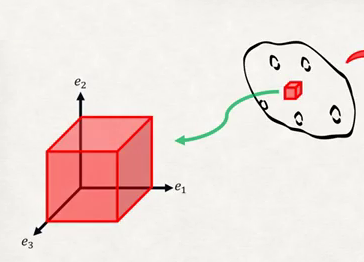
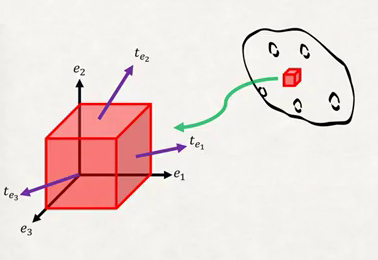
-

Changed region(s): [[0.0, 0.0923, 0.9973, 0.9538], [0.9368, 0.1846, 1.0, 0.2462], [0.3324, 0.1846, 0.3929, 0.2462]]

diff --git a/phy/phy_020_strs_02/materyel_mekanigi__2.html b/phy/phy_020_strs_02/materyel_mekanigi__2.html
@@ -37,7 +37,7 @@ olur,</p>
 <p>$$
 \epsilon_{Green} \approx \frac{1}{2} (\nabla u + \nabla u^T )
 $$</p>
-<p>Bilesen formunda</p>
+<p>Bileşen formunda</p>
 <p>$$
 \epsilon_{ij} = \left(
 \frac{\partial u_i}{\partial X_j} + \frac{\partial u_j}{\partial X_i}
@@ -77,7 +77,20 @@ sözel şekilde anlatırsak, çubuğu aldım ve kestim, Statik dersi der ki kayk
 nesnelerde olan şudur, çubuğu kesiyorum ve bileşenleri stres öğeleri olan tek
 bir vektör elde ediyorum.</p>
 <p>Şimdi çekiş vektörü kavramını daha basitleştirmeye uğraşalım. Bunun için
-patatesimize geri dönüyoruz. Patatesten üç boyutlu sonsuz küçük bir parça
-çıkarttığımızı düşünelim şimdi,</p>
+patatesimize geri dönüyoruz. Patatesten üç boyutlu sonsuz küçük küp şeklinde bir
+parça çıkarttığımızı düşünelim şimdi,</p>
 <p><img alt="" src="phy_020_strs_02_03.png" /></p>
+<p>Bu ufak parça nesnenin bütünlüğünden çıkartıldığı için çekiş vektörlerinin
+bu küpün yüzlerine etki eden stres vektörleri olduğunu söyleyebiliriz.</p>
+<p>Küp sekli iyi bir seçim aslında çünkü her yüz kordinat eksendeki bir baz düzleme
+paralel. Ayrıca $t_{e_1}$, $t_{e_2}$, $t_{e_3}$ yerine de daha iyi bir temsil
+şekli bulabiliriz, küpün her yüzündeki bu $t$ çekiş vektörlerini de üç parçaya
+ayırabiliriz,</p>
+<p><img alt="" src="phy_020_strs_02_04.png" /></p>
+<p>Bu sekildeki temsilin iyi bir tarafi her yuzdeki uc vektorun orijindeki
+baz vektorlerle birebir uyusmasi. O zaman mesela $t_{e_3}$'u o baz vektorlerin
+lineer bir kombinasyonu olarak yazabilirim,</p>
+<p>$$
+t_{e_3} = \sigma_{31} e_1 + \sigma_{32} e_2 + \sigma_{33} e_3
+$$</p>
 <p>[devam edecek]</p>

diff --git a/phy/phy_020_strs_02/phy_020_strs_02.html b/phy/phy_020_strs_02/phy_020_strs_02.html
@@ -37,7 +37,7 @@ olur,</p>
 <p>$$
 \epsilon_{Green} \approx \frac{1}{2} (\nabla u + \nabla u^T )
 $$</p>
-<p>Bilesen formunda</p>
+<p>Bileşen formunda</p>
 <p>$$
 \epsilon_{ij} = \left(
 \frac{\partial u_i}{\partial X_j} + \frac{\partial u_j}{\partial X_i}
@@ -77,7 +77,20 @@ sözel şekilde anlatırsak, çubuğu aldım ve kestim, Statik dersi der ki kayk
 nesnelerde olan şudur, çubuğu kesiyorum ve bileşenleri stres öğeleri olan tek
 bir vektör elde ediyorum.</p>
 <p>Şimdi çekiş vektörü kavramını daha basitleştirmeye uğraşalım. Bunun için
-patatesimize geri dönüyoruz. Patatesten üç boyutlu sonsuz küçük bir parça
-çıkarttığımızı düşünelim şimdi,</p>
+patatesimize geri dönüyoruz. Patatesten üç boyutlu sonsuz küçük küp şeklinde bir
+parça çıkarttığımızı düşünelim şimdi,</p>
 <p><img alt="" src="phy_020_strs_02_03.png" /></p>
+<p>Bu ufak parça nesnenin bütünlüğünden çıkartıldığı için çekiş vektörlerinin
+bu küpün yüzlerine etki eden stres vektörleri olduğunu söyleyebiliriz.</p>
+<p>Küp sekli iyi bir seçim aslında çünkü her yüz kordinat eksendeki bir baz düzleme
+paralel. Ayrıca $t_{e_1}$, $t_{e_2}$, $t_{e_3}$ yerine de daha iyi bir temsil
+şekli bulabiliriz, küpün her yüzündeki bu $t$ çekiş vektörlerini de üç parçaya
+ayırabiliriz,</p>
+<p><img alt="" src="phy_020_strs_02_04.png" /></p>
+<p>Bu sekildeki temsilin iyi bir tarafi her yuzdeki uc vektorun orijindeki
+baz vektorlerle birebir uyusmasi. O zaman mesela $t_{e_3}$'u o baz vektorlerin
+lineer bir kombinasyonu olarak yazabilirim,</p>
+<p>$$
+t_{e_3} = \sigma_{31} e_1 + \sigma_{32} e_2 + \sigma_{33} e_3
+$$</p>
 <p>[devam edecek]</p>

diff --git a/phy/phy_020_strs_02/phy_020_strs_02.tex b/phy/phy_020_strs_02/phy_020_strs_02.tex
@@ -18,7 +18,7 @@ $$
 \epsilon_{Green} \approx \frac{1}{2} (\nabla u + \nabla u^T )
 $$
 
-Bilesen formunda
+Bileşen formunda
 
 $$
 \epsilon_{ij} = \left(
@@ -72,12 +72,28 @@ nesnelerde olan şudur, çubuğu kesiyorum ve bileşenleri stres öğeleri olan 
 bir vektör elde ediyorum.
 
 Şimdi çekiş vektörü kavramını daha basitleştirmeye uğraşalım. Bunun için
-patatesimize geri dönüyoruz. Patatesten üç boyutlu sonsuz küçük bir parça
-çıkarttığımızı düşünelim şimdi,
+patatesimize geri dönüyoruz. Patatesten üç boyutlu sonsuz küçük küp şeklinde bir
+parça çıkarttığımızı düşünelim şimdi,
 
 \includegraphics[width=15em]{phy_020_strs_02_03.png}
 
+Bu ufak parça nesnenin bütünlüğünden çıkartıldığı için çekiş vektörlerinin
+bu küpün yüzlerine etki eden stres vektörleri olduğunu söyleyebiliriz.
 
+Küp sekli iyi bir seçim aslında çünkü her yüz kordinat eksendeki bir baz düzleme
+paralel. Ayrıca $t_{e_1}$, $t_{e_2}$, $t_{e_3}$ yerine de daha iyi bir temsil
+şekli bulabiliriz, küpün her yüzündeki bu $t$ çekiş vektörlerini de üç parçaya
+ayırabiliriz,
+
+\includegraphics[width=10em]{phy_020_strs_02_04.png}
+
+Bu sekildeki temsilin iyi bir tarafi her yuzdeki uc vektorun orijindeki
+baz vektorlerle birebir uyusmasi. O zaman mesela $t_{e_3}$'u o baz vektorlerin
+lineer bir kombinasyonu olarak yazabilirim,
+
+$$
+t_{e_3} = \sigma_{31} e_1 + \sigma_{32} e_2 + \sigma_{33} e_3
+$$
 
 
 
